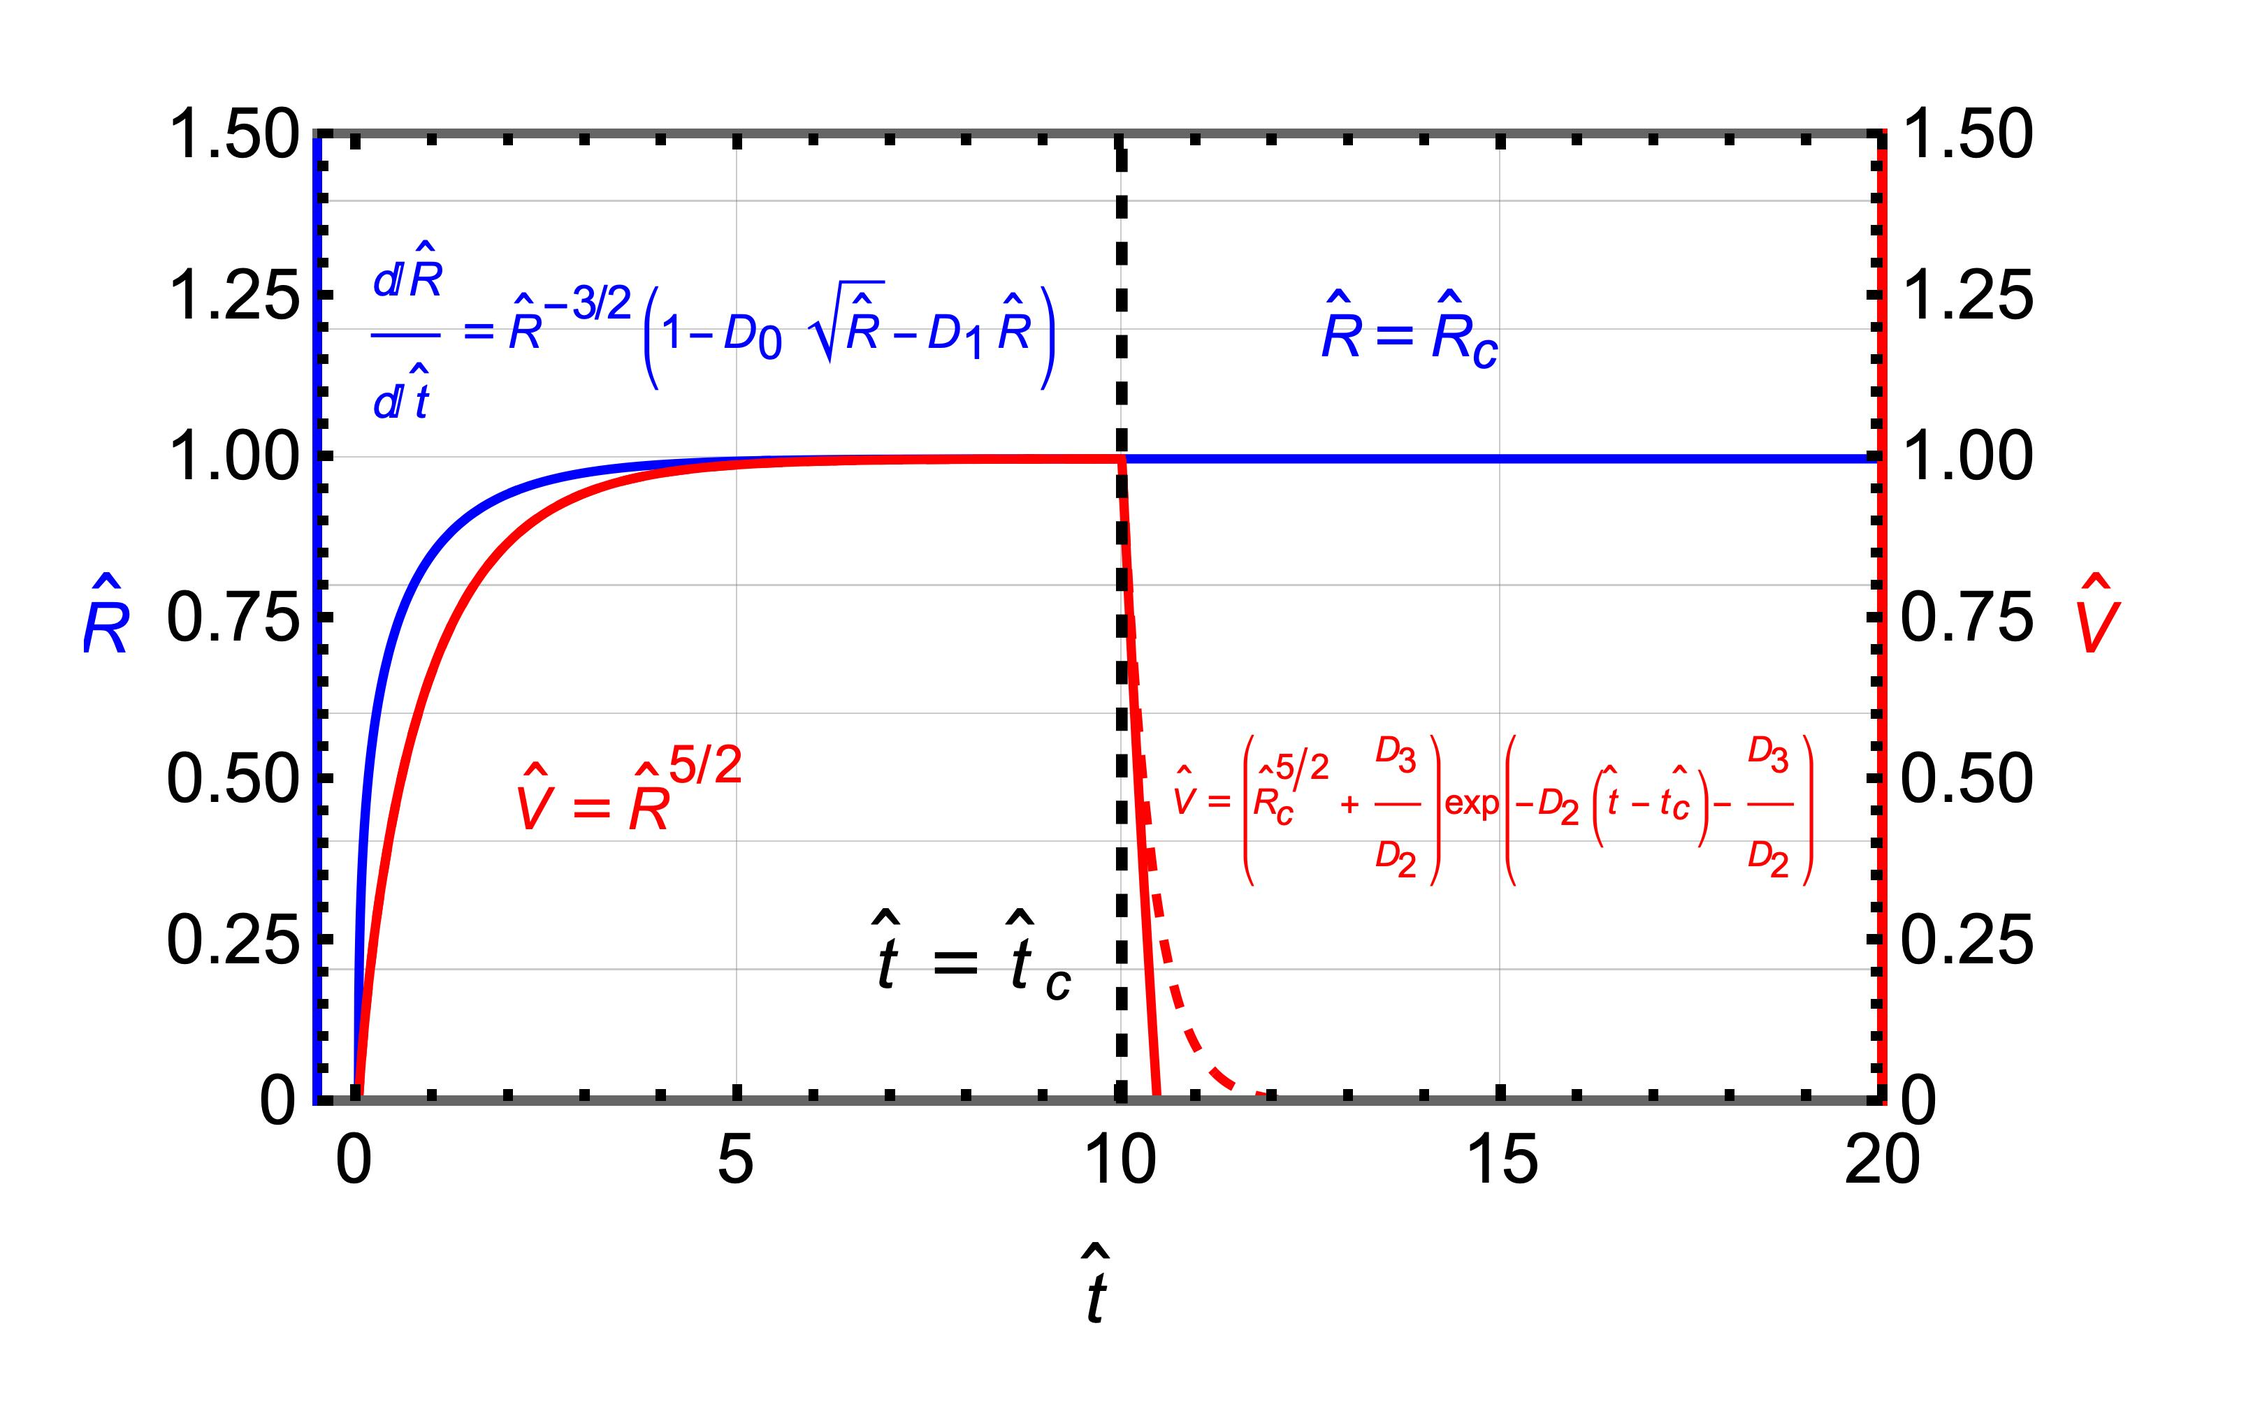
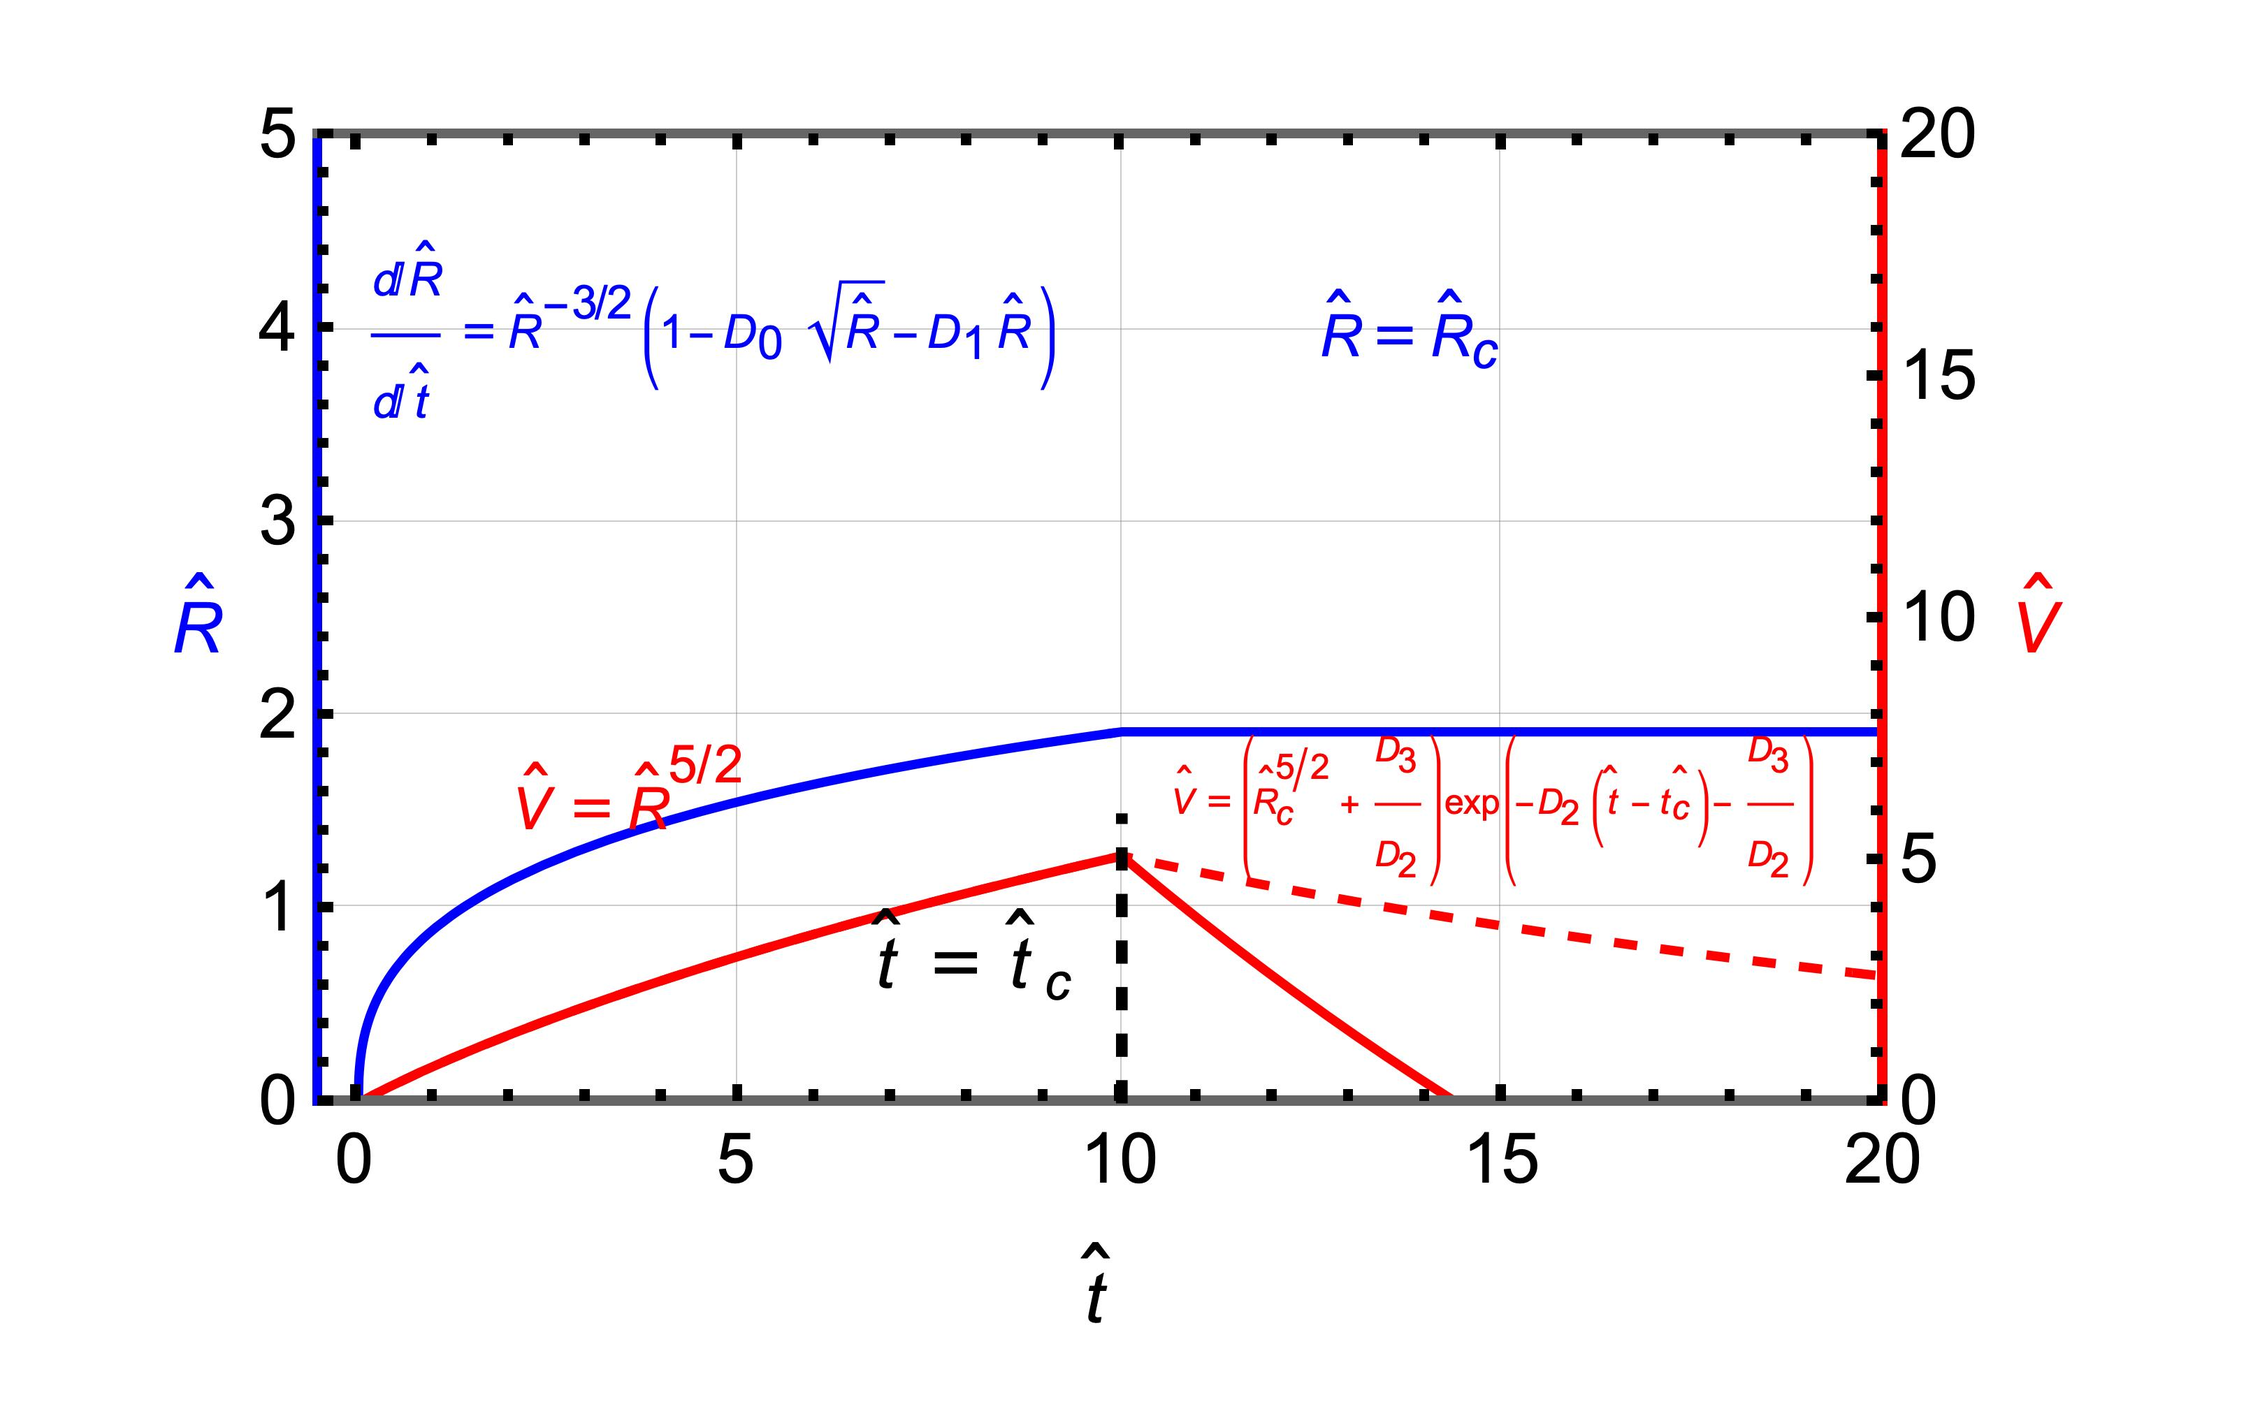
Stable nevis+blister.

diff --git a/nevis_blister.m b/nevis_blister.m
@@ -1,55 +1,55 @@
 function [aa,vv] = nevis_blister(aa,vv,pp,gg,oo)
-% 24/11/2024 HZ
-% This is a module containing blister physics
-% Input: local pressure of the subglacial drainage system (p_w)
-%        input from the lake (aa.Q_lake), 
-% Update:
-%        the volume (vv.Vb) and corresponding radius (vv.Rb)
-%        the flow rate from the blister to the surrounding (aa.Q_b)
-% Return:
-%        aa,vv
-
-% include the input from the lake
-if ~isfield(oo,'lake_input'), oo.lake_input = 1; end
-
-%% input from the lake to the blister
-% a.Q_lake is the input to the blister model
-if oo.lake_input && isfield(pp,'ni_l') && ~isempty(pp.ni_l)
-    aa.Q_lake = 0*ones(gg.nIJ,1);
-    % prescribe input to the lake
-    aa.Q_lake(pp.ni_l) = pp.lake_input_function(vv.t);
-end
-
-%% update volume according to mass conservation
-% Vb = zeros(size(vv.Vb));
-% forward euler
-Q_in = pp.c42*aa.Q_lake;
-
-% Darcy's law
-Q_out = pp.c43.*vv.Vb./vv.Rb; % + pp.c44*vv.Rb.*(aa.phi_0-vv.phi);
-
-% Simplified exponential decay (pp.c42*aa.Q_lake <= vv.Vb/10.0).*
-% Q_out = (vv.Vb./5.0);
-% Q_out = zeros(gg.nIJ,1);
-% the outflux should be smaller than the remaining volume /dt
-Q_out = min(Q_out, vv.Vb/vv.dt);
-
-% rate of volume variation
-V_t = Q_in - Q_out;
-
-% update the volume
-vv.Vb = vv.Vb + vv.dt.*V_t;
-% the volume should be non-negative
-vv.Vb(vv.Vb<0)=0;
-
-% display the volume of the blister
-disp(['The blister volume is ' num2str(max(vv.Vb))]);
-
-%% update radius according to toughness/exponential decay
-vv.Rb = (vv.Vb>0).*max(vv.Rb,1/pp.c45*vv.Vb.^0.4);
-% forward Euler
-% vv.Rb = (vv.Vb>0).*1/pp.c45.*(pp.c45*vv.Rb.^(2.5) + (pp.c45.*vv.Rb.^(2.5)<=vv.Vb).*(V_t>0).*vv.dt.*V_t).^(0.4);
-aa.Qb = Q_out./gg.Dx(pp.ni_l)./gg.Dy(pp.ni_l);
-% dimensionally, aa.Q_b ~ L T^(-1) ~ [E]
-
-end
+    % 24/11/2024 HZ
+    % This is a module containing blister physics
+    % Input: local pressure of the subglacial drainage system (p_w)
+    %        input from the lake (aa.Q_lake), 
+    % Update:
+    %        the volume (vv.Vb) and corresponding radius (vv.Rb)
+    %        the flow rate from the blister to the surrounding (aa.Q_b)
+    % Return:
+    %        aa,vv
+    
+    % include the input from the lake
+    if ~isfield(oo,'lake_input'), oo.lake_input = 1; end     % This is not in function yet!
+    
+    %% input from the lake to the blister
+    % a.Q_lake is the input to the blister model
+    if oo.lake_input && isfield(pp,'ni_l') && ~isempty(pp.ni_l)
+        aa.Q_lake = 0*ones(gg.nIJ,1);                        % set the lake input to 0 everywhere
+        aa.Q_lake(pp.ni_l) = pp.lake_input_function(vv.t);   % add input from lake at point pp.ni_l
+    end
+    
+    %% update volume according to mass conservation
+    % inflow rate from lake
+    Q_in = pp.c42*aa.Q_lake; 
+    % outflow rate by Darcy's law
+    Q_out = pp.c43*pp.k_blister(vv.hs).*vv.Vb./(vv.Rb).^2 + ...
+            pp.c44*pp.k_blister(vv.hs).*vv.Rb.*(aa.phi_0-vv.phi);
+    % Q_out = Q_in;
+    % Q_out = zeros(gg.nIJ,1);
+    
+    % the outflow rate should be smaller than the remaining volume/dt,
+    % otherwise get negative volume after extraction
+    Q_out = min(Q_out, vv.Vb/vv.dt);
+    
+    % rate of volume variation
+    V_t = Q_in - Q_out;
+    
+    % update the volume, forward euler
+    vv.Vb = vv.Vb + vv.dt.*V_t;
+    
+    % the volume should be non-negative [optional]
+    % vv.Vb(vv.Vb<0)=0;
+    
+    % display the volume of the blister
+    disp(['The blister volume is ' num2str(max(vv.Vb)), ' V0.']);
+    disp(['The ratio $Q_{out}/Q_{in}$ ' num2str(Q_out(pp.ni_l)/Q_in(pp.ni_l))]);
+    
+    %% update radius according to toughness/exponential decay
+    vv.Rb = (vv.Vb>0).*max(vv.Rb, 1/pp.c45*vv.Vb.^0.4); % radius should never decrease unless the volume drops to 0
+    % forward Euler
+    % vv.Rb = (vv.Vb>0).*1/pp.c45.*(pp.c45*vv.Rb.^(2.5) + (pp.c45.*vv.Rb.^(2.5)<=vv.Vb).*(V_t>0).*vv.dt.*V_t).^(0.4);
+    aa.Qb = Q_out./gg.Dx(pp.ni_l)./gg.Dy(pp.ni_l);
+    % dimensionally, aa.Q_b ~ L T^(-1) ~ [E]
+    
+    end

diff --git a/nevis_summary.m b/nevis_summary.m
@@ -17,6 +17,7 @@ phi = (ps.phi/10^6)*[tt.phi];  % dimensional hydrulic potential (MPa)
 N = (ps.phi/10^6)*[tt.N];      % dimensional effective stress (MPa)
 hs = ps.x^2*ps.h*[tt.hs];      % integrated hs (m^3)
 he = ps.x^2*ps.h*[tt.he];      % integrated he (m^3)
+p_w = ps.phi/1e6*[tt.pwb];     % dimensional hydraulic potential at the lake (MPa)
 
 S = ps.x*ps.S*[tt.S];
 A = ps.x^2*sum(gg.Dx.*gg.Dy);
@@ -29,9 +30,13 @@ if isfield(tt,'pts_phi') && ~isempty([tt.pts_phi])
     pts_prat = ([tt.pts_phi]-aa.phi_a(oo.pts_ni)*[tt.t].^0)./...
                (aa.phi_0(oo.pts_ni)*[tt.t].^0-aa.phi_a(oo.pts_ni)*[tt.t].^0);
 end
+% dimensional pressure p_b+\rho_i g h (MPa)
+p_b = 0.125*pd.E_e/1e6/pd.alpha_b/(1-pd.nu^2).*V_b./(R_b).^3 + ps.phi/1e6*aa.phi_0(pp.ni_l);
+
 %% make plot
+tmin=180; tmax=240; % time range for the plot
 f1 = figure(1); clf;
-ax(1) = subplot(4,1,1);
+ax(1) = subplot(5,1,1);
     plot(t,Q_in,'k-',t,Q_out,'r-',t,m,'b-',t,Q_outQ,'k--',LineWidth=1.5);
     hold on; 
     % plot(t,Q_outQ,'k--', LineWidth=1.5);
@@ -40,34 +45,37 @@ ax(1) = subplot(4,1,1);
     ylabel('Q [ m^3/s ]');
     legend('Q_{in}','Q_{out}','m','Q_{outQ}','NumColumns',2);
     ylim([0 max(Q_out)]);
-    xlim([80 140])
+    xlim([tmin tmax])
     % ylim([0 2000])
     grid on
-ax(2) = subplot(4,1,2); 
+ax(2) = subplot(5,1,2); 
     if isfield(tt,'pts_phi') && ~isempty([tt.pts_phi])  
     plot(t,pts_N,'-',LineWidth=1.5);
     end
     hold on;
     plot(t,N,'-','color',0.6*[1 1 1],LineWidth=1.5);
     xlabel('t [ d ]');
-    ylabel('Average N [ MPa ]');
-    xlim([80 140])
+    ylabel('N [ MPa ]');
+    h=legend('N at the blister','Average N');
+    h.Location='southeast';
+    xlim([tmin tmax])
     grid on    
-ax(3) = subplot(4,1,3); 
+ax(3) = subplot(5,1,3); 
     yyaxis left
     plot(t,hs./A,'b-',t,he./A,'b--',LineWidth=1.5);
     xlabel('t [ d ]');
     ylabel('Average h [ m ]');
     h=legend('h_{cav}','h_{el}','NumColumns',2);
     h.Location='northeast';
-    ylim([2e-3 5e-3])
+    ylim([0.02 0.03])
 
     yyaxis right
     plot(t,1e3*S./A,'r-',LineWidth=1.5);
     ylabel('Average S [ m ]');
-    xlim([80 140])
+    xlim([tmin tmax])
+    % ylim([0 0.05])
     grid on
-ax(4) = subplot(4,1,4); 
+ax(4) = subplot(5,1,4); 
     yyaxis left
     plot(t,V_b,'b-',LineWidth=1.5);
     xlabel('t [ d ]');
@@ -79,16 +87,27 @@ ax(4) = subplot(4,1,4);
     plot(t,R_b,'r-',LineWidth=1.5);
     xlabel('t [ d ]');
     ylabel('R [ m ]');
-    xlim([80 140])
+    xlim([tmin tmax])
     % legend('h_{cav}','h_{el}','S')
     grid on
 
-% ax(5) = subplot(5,1,5); 
-%     plot(t,N_b,'k-',LineWidth=1.5);
-%     xlabel('t [ d ]');
-%     ylabel('N [ MPa ]');
-%     % legend('h_{cav}','h_{el}','S')
-%     grid on
+ax(5) = subplot(5,1,5); 
+    p1 = plot(t,p_b,'k-',LineWidth=1.5); % blister pressure + \rho_i g h
+    hold on
+    p2 = plot(t,pts_N,'b-.',LineWidth=1.5);
+    p3 = plot(t,p_w,'r-.',LineWidth=1.5); 
+    
+    xlim([tmin tmax])
+    ylim([0 5])
 
-set(gcf,'Position',[100 100 500 600])
-exportgraphics(gcf,'time_series.jpg','Resolution',600)
+    xlabel('t [ d ]');
+    ylabel('N [ MPa ]');
+    legend('p_b+\rho_i g h','N','p_w')
+    grid on
+
+set(f1,'Position',[680 235 660 743])
+% exportgraphics(gcf,'time_series.jpg','Resolution',600)
+% saveas(f1,'time_series.jpeg','jpeg')
+
+img = getframe(gcf);
+imwrite(img.cdata, ['time_series_concentrated', '.png']);

diff --git a/nevis_nondimension.m b/nevis_nondimension.m
@@ -42,11 +42,12 @@ if ~isfield(ps,'Xi'), ps.Xi = ps.Q*ps.Psi; end          % energy dissipation sca
 if ~isfield(ps,'K_0'), ps.K_0 = 4*pd.alpha_b*(1-pd.nu^2)*pd.K_1c*sqrt(pi)/pd.E_e; end                 
 % if ~isfield(ps,'R_0'), ps.R_0 = (0.5*(-0.5*sqrt(pi)*pd.K_1c+...
 %                        sqrt(0.25*pi*pd.K_1c^2 + pd.Q_0*ps.phi*pd.mu/pd.k_bed))/ps.phi)^2; end     
-if ~isfield(ps,'R_0'), ps.R_0 = 1.0e3; end             % steady-state radius of the blister (m)
-if ~isfield(ps,'t_0'), ps.t_0 = 2.5*ps.K_0*ps.R_0^(5/2)/pd.Q_0; end % timescale of blister growth (s)
+if ~isfield(ps,'R_0'), ps.R_0 = 1.0e3; end              % steady-state radius of the blister (m)
 if ~isfield(ps,'R'), ps.R = ps.R_0; end                 % blister radius scale (m) [L]
-if ~isfield(ps,'V'), ps.V = 2.5*ps.K_0*(ps.R_0)^(5/2); end  % blister volume scale (m^3) [L^3]
-% if ~isfield(ps,'V'), ps.V = 2.5e8; end  % blister volume scale (m^3) [L^3]
+if ~isfield(ps,'V'), ps.V = ps.K_0*(ps.R_0)^(5/2); end  % blister volume scale (m^3) [L^3]
+if ~isfield(ps,'t_0'), ps.t_0 = ps.V/pd.Q_0; end        % timescale of blister growth (s)
+if ~isfield(ps,'hb'), ps.hb = 1.5/pi*(ps.V)/ps.R^2; end     % blister thickness scale (m) [L]
+    
 %% Dimensionless parameters [ many of these can be chosen to be 1 by suitable choice of scales ]
 pp.c1 = ps.hs/ps.h;
 pp.c2 = ps.he/ps.h;
@@ -95,9 +96,11 @@ pp.c42 = pd.Q_0*ps.t/ps.V; % influx
 % pp.c43 = 4*pd.k_bed/pd.mu*ps.t/ps.V*(0.5*sqrt(pi*ps.R_0)*pd.K_1c); % Darcy flux 
 pp.c43 = 0.5*pd.k_bed*pd.E_e*ps.t/(pd.mu*pd.alpha_b*(1-pd.nu^2)*ps.R^2); % Darcy flux 
 pp.c44 = 4*pd.k_bed/pd.mu*ps.t*ps.R_0/ps.V*ps.phi; % effective pressure N
-pp.c45 = 2.5*ps.K_0*(ps.R_0)^(5/2)/ps.V; % pp.c45 = 1
+pp.c45 = ps.K_0*(ps.R_0)^(5/2)/ps.V; % pp.c45 = 1
 pp.c46 = ps.V/ps.h/ps.x^2;
-pp.R_i = pd.R_i/ps.R_0;     % initial blister radius
+pp.c47 = ps.x/ps.R;        % ratio of [x] to R0
+pp.c48 = 4*pd.k_bed/pd.mu*ps.t*ps.R_0/ps.V*pd.p_Y;  % yield stress
+pp.Ri = 5000.0/ps.R;        % initial blister radius
 
 pp.n_Glen = pd.n_Glen;
 pp.alpha_s = pd.alpha_s;

diff --git a/nevis_1d_example.m b/nevis_1d_example.m
@@ -1,4 +1,4 @@
-% 5 November 2024: sample nevis run in one dimension
+ % 5 November 2024: sample nevis run in one dimension
 
 clear
 oo.root = '';           % filename root
@@ -40,23 +40,23 @@ vv.hs = (0.1/ps.hs)*ones(gg.nIJ,1);         % 10cm thick water sheet
 % [pp.ni_m,pp.sum_m] = nevis_moulins(1000/ps.x,0,gg,oo);  % one moulin at x=1km,y=0         
 
 %% lakes
-[pp.ni_l,pp.sum_l] = nevis_lakes(5000/ps.x,0,gg,oo);  % one lake at x=1km,y=0
+[pp.ni_l,pp.sum_l] = nevis_lakes(0.5*L/ps.x,0,gg,oo);  % one lake at x=1km,y=0
 
 %% surface input
 % runoff function; ramp up input over timescale 30 days (dimensionless)
 pp.meltE = @(t) (10/1000/pd.td/ps.m)*(1-exp(-t/(30*pd.td/ps.t))); 
 
 % lake input function
-t_input_1 = 10.0;
+t_input_1 = 20.0;
 t_0 = pd.td/ps.t;
-sigma = 0.14;
+sigma = 0.1;
 % pp.lake_input_function = @(t) (t>=t_input && t<=t_input+0.1).*(pd.Q_0)/pd.Q_0; % Heaviside
 pp.lake_input_function = @(t) (pd.Q_0*t_0)/(sqrt(2*pi)*sigma*pd.Q_0)*...
                         exp(-0.5/sigma^2*(t-t_input_1)^2).*(t>=t_input_1-5*sigma && t<=t_input_1+5*sigma);
 
 % dimensionless permeability k as a function of dimensionless sheet thickness h
-% pp.k_blister = @(h)     200*pd.mu*pd.k_s*(ps.hs*h).^3/pd.k_bed; % dimensional value/scale 
-pp.k_blister = @(h)     5.0; % dimensional value/scale 
+% pp.k_blister = @(h)     11*pd.mu*pd.k_s*(ps.hs*h).^3/pd.k_bed; % dimensional value/scale 
+pp.k_blister = @(h)     2.0; % dimensional value/scale 
 % % dimensionless fracture toughness K_c as a function of dimensional sheet thickness h
 % pp.K_c = @(h)           pd.K_1c/pd.K_1c;
 
@@ -72,7 +72,7 @@ oo.pts_ni = pp.ni_l;
 save([oo.root,oo.fn],'pp','pd','ps','gg','aa','vv','oo');
 
 %% timestep 
-t_span = (0:500)*(0.4*pd.td/ps.t);
+t_span = (0:750)*(0.4*pd.td/ps.t);
 [tt,vv] = nevis_timesteps(t_span,vv,aa,pp,gg,oo);     % save at hourly timesteps
 
 %% plot summary

diff --git a/nevis_1d_animate.m b/nevis_1d_animate.m
@@ -1,6 +1,23 @@
 % Script to animate the 1-dimensiona results from nevis
 % By Hanwen Zhang on 25/11/2024
 
+phi = (ps.phi/10^6)*[tt.phi];  % dimensional hydrulic potential (MPa)
+N = (ps.phi/10^6)*[tt.N];      % dimensional effective stress (MPa)
+hs = ps.x^2*ps.h*[tt.hs];      % integrated hs (m^3)
+he = ps.x^2*ps.h*[tt.he];      % integrated he (m^3)
+
+S = ps.x*ps.S*[tt.S];
+A = ps.x^2*sum(gg.Dx.*gg.Dy);
+
+if isfield(tt,'pts_phi') && ~isempty([tt.pts_phi])    
+    pts_phi = (ps.phi/10^6)*[tt.pts_phi];
+    pts_hs = ps.hs*[tt.pts_hs];
+    pts_N = (ps.phi/10^6)*(aa.phi_0(oo.pts_ni)*[tt.t].^0 - [tt.pts_phi]);
+    pts_pw = (ps.phi/10^6)*([tt.pts_phi]-aa.phi_a(oo.pts_ni)*[tt.t].^0);
+    pts_prat = ([tt.pts_phi]-aa.phi_a(oo.pts_ni)*[tt.t].^0)./...
+               (aa.phi_0(oo.pts_ni)*[tt.t].^0-aa.phi_a(oo.pts_ni)*[tt.t].^0);
+end
+
 figure(2);
 fs = 12;
 path = '/Users/eart0487/nevis/nevis_1d_example/';
@@ -69,7 +86,7 @@ subplot(513);
     p_w = ps.phi/1e6*[tt.pwb];     % dimensional hydraulic potential at the lake (MPa)
     S = ps.x*ps.S*[tt.S];          % % dimensional cross sectional area (m^2)
     % dimensional pressure p_b+\rho_i g h (MPa)
-    p_b = 0.125*pd.E_e/1e6/pd.alpha_b/(1-pd.nu^2).*V_b./(R_b).^3;% + ps.phi/1e6*aa.phi_0(pp.ni_l);
+    p_b = 0.125*pd.E_e/1e6/pd.alpha_b/(1-pd.nu^2).*V_b./(R_b).^3 + ps.phi/1e6*aa.phi_0(pp.ni_l);
     
     grid on
     yyaxis left
@@ -122,8 +139,13 @@ subplot(515);
     p9 = plot(t,p_b,'-'); 
     set(p9,'LineWidth',1.5,'Color',[0 0 0]);
     hold on
-    p10 = plot(t,p_w,'-'); 
+    p10 = plot(t,p_w,'--'); 
     set(p10,'LineWidth',1.5,'Color',[1 0 0]);
+    
+    if isfield(tt,'pts_phi') && ~isempty([tt.pts_phi])  
+    plot(t,pts_N,'-.',LineWidth=1.5);
+    end
+    % plot(t,N,'-.','color',0.6*[1 1 1],LineWidth=1.5);
 
     xlim([0 max(t)])
     ylim([0 5])

diff --git a/nevis_defaults.m b/nevis_defaults.m
@@ -81,8 +81,9 @@ if ~isfield(pd,'k_bed'), pd.k_bed = 1.0e-12; end                    % ice bed pe
 if ~isfield(pd,'alpha_b'), pd.alpha_b = 1/3; end                    % shape parameter of the blister
 if ~isfield(pd,'nu'), pd.nu = 0.33; end                             % Poisson's ratio of ice
 if ~isfield(pd,'E_e'), pd.E_e = 8.8e9; end                          % Young's modulus of ice
-if ~isfield(pd,'Q_0'), pd.Q_0 = 1.0e3; end                           % scale for influx from the lake to the blister (m^3/s)
-if ~isfield(pd,'R_i'), pd.R_i = 0.0; end                             % initial radius of a blister (m)
+if ~isfield(pd,'Q_0'), pd.Q_0 = 1.0e3; end                          % scale for influx from the lake to the blister (m^3/s)
+if ~isfield(pd,'R_i'), pd.R_i = 0.0; end                            % initial radius of a blister (m)
+if ~isfield(pd,'p_Y'), pd.p_Y = 1.0e6; end                          % yield stress of ice (Pa)
 
 %% Default options
 %method options

diff --git a/nevis_initialize.m b/nevis_initialize.m
@@ -59,7 +59,7 @@ function [aa,vv] = nevis_initialize(b,s,gg,pp,oo)
     Ss = 0*ones(gg.cIJ,1);       % cross sectional area of diagonal s channels
     Sr = 0*ones(gg.cIJ,1);       % cross sectional area of diagonal r channels
 
-    Rb = pp.R_i*ones(gg.nIJ,1);  % blister radius
+    Rb = 0*ones(gg.nIJ,1);       % blister radius
     Vb = pp.c45.*Rb.^(5/2);      % blister volume
     
     %% boundary conditions

diff --git a/nevis_timesteps.m b/nevis_timesteps.m
@@ -232,7 +232,7 @@ while t<t_stop+oo.dt_min
 
     %% update blister radius and volume
     % current timestep is dt, current solution is vv, precribed field aa
-    [aa,vv] = nevis_blister_draft(aa,vv,pp,gg,oo);
+    [aa,vv] = nevis_blister_distributed(aa,vv,pp,gg,oo);
     
     %% time averaging of pressure
     if oo.save_phi_av
